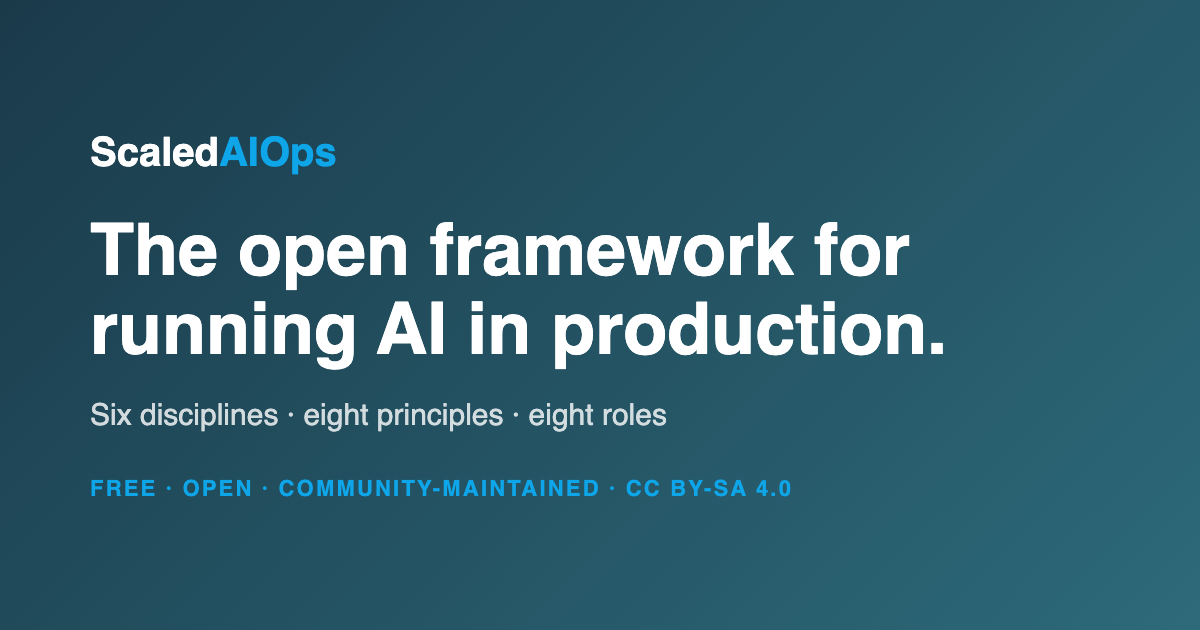
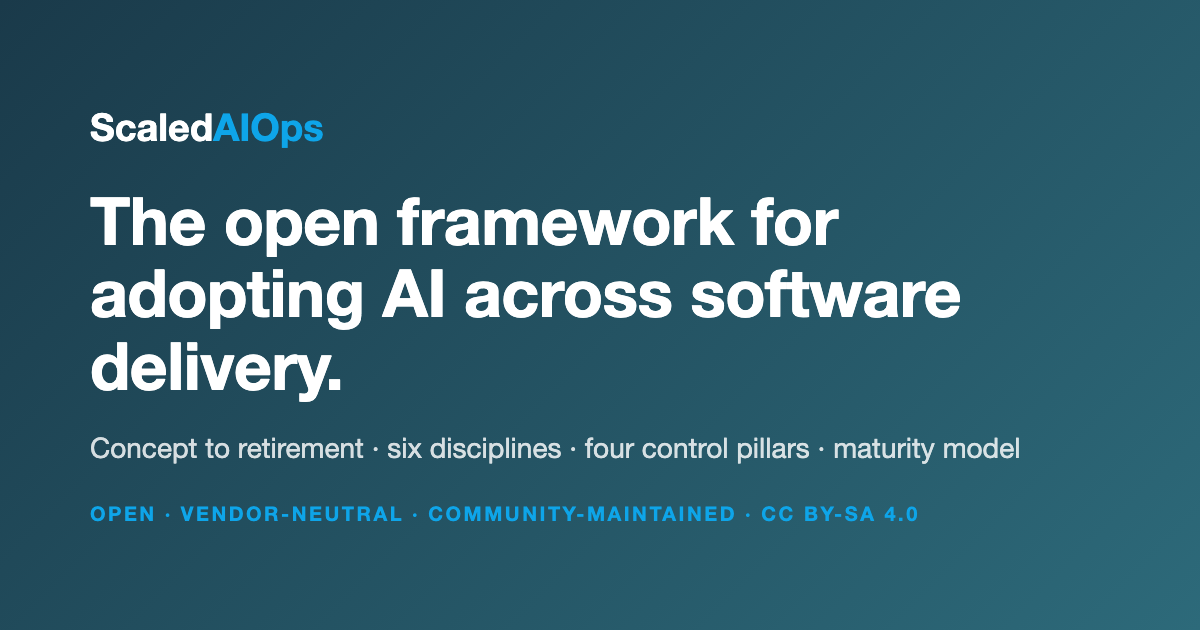
Social preview image and page titles for the new positioning (#13)
AI-assisted: yes

Changed region(s): [[0.0617, 0.3016, 0.8633, 0.8444], [0.0617, 0.181, 0.2775, 0.2714]]

diff --git a/_layout/head.html b/_layout/head.html
@@ -9,7 +9,7 @@
   <meta property="og:site_name" content="ScaledAIOps">
   <meta property="og:title" content="{{TITLE}}">
   <meta property="og:description" content="{{DESCRIPTION}}">
-  <meta property="og:image" content="https://www.scaledaiops.org/assets/img/og.png">
+  <meta property="og:image" content="https://www.scaledaiops.org/assets/img/og.png?v=20260923">
   <meta name="twitter:card" content="summary_large_image">
   <link rel="icon" href="/assets/img/favicon.svg" type="image/svg+xml">
   <link rel="preconnect" href="https://fonts.googleapis.com">

diff --git a/_content/blog/ffrs/index.html b/_content/blog/ffrs/index.html
@@ -1,4 +1,4 @@
-<!-- title: How scaledaiops.org resolves feedback with FFRS · ScaledAIOps – AI Operations Framework -->
+<!-- title: How scaledaiops.org resolves feedback with FFRS · ScaledAIOps -->
 <!-- description: The Fast Feedback Resolution System (FFRS) on scaledaiops.org: a five-stage pipeline from capture to close, an AI agent that produces the first response, humans who decide, and metrics anyone can recompute. Architecture, costs, comparisons and lessons. -->
 <!-- active: none -->
 

diff --git a/_content/feedback/index.html b/_content/feedback/index.html
@@ -1,4 +1,4 @@
-<!-- title: Feedback · ScaledAIOps – AI Operations Framework -->
+<!-- title: Feedback · ScaledAIOps -->
 <!-- description: Report a bug, request a feature or check the status of feedback you sent to the ScaledAIOps framework. -->
 <!-- active: none -->
 
